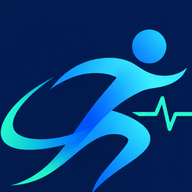
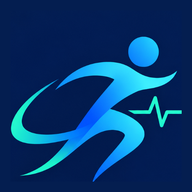
Make homepage type larger and use a graphic Revive Motion mark
Drop .Ai from the lockup, show the runner as the mark with Revive Motion in real text, and darken homepage copy so it is easier to read.

diff --git a/src/app/page.tsx b/src/app/page.tsx
@@ -49,16 +49,16 @@ export default function Home() {
 
       <main className="relative z-10 mx-auto flex w-full max-w-5xl flex-col px-6 pb-8">
         <section className="animate-fade-up mx-auto max-w-2xl text-center">
-          <span className="inline-flex items-center rounded-full border border-brand/30 bg-brand-soft px-4 py-1.5 text-xs font-bold uppercase tracking-wider text-brand-light">
-            Recovery & Mobility
+          <span className="inline-flex items-center rounded-full border border-brand/30 bg-white px-4 py-2 text-sm font-bold text-brand-light">
+            Recovery and mobility
           </span>
-          <h1 className="mt-6 text-4xl font-bold leading-tight tracking-tight sm:text-5xl">
+          <h1 className="mt-6 text-[2.15rem] font-bold leading-tight text-foreground sm:text-5xl">
             {t("moveBetter", locale)}
           </h1>
-          <p className="mt-4 text-lg text-body">
+          <p className="mt-5 text-xl leading-8 text-foreground">
             {isPatient
-              ? "Start today's session from your briefing, or explore a body area for a full assessment."
-              : "Select a body area for screening questions, sensor ROM testing, and personalized exercises."}
+              ? "Start today's session from your briefing, or open a body area for a full assessment."
+              : "Choose a body area for screening questions, movement tests, and exercises made for you."}
           </p>
           {isPatient && (
             <div className="mt-8 flex w-full max-w-sm flex-col gap-3 mx-auto">
@@ -94,9 +94,9 @@ export default function Home() {
               <div className="flex h-14 w-14 items-center justify-center rounded-xl bg-brand-soft text-brand transition group-hover:bg-brand group-hover:text-white">
                 {areaIcons[area.id]}
               </div>
-              <h2 className="mt-5 text-lg font-bold">{area.label}</h2>
-              <p className="mt-2 flex-1 text-sm leading-6 text-body">{area.description}</p>
-              <span className="mt-5 inline-flex items-center gap-1 text-sm font-semibold text-brand-light">
+              <h2 className="mt-5 text-xl font-bold text-foreground">{area.label}</h2>
+              <p className="mt-2 flex-1 text-base leading-7 text-foreground">{area.description}</p>
+              <span className="mt-5 inline-flex items-center gap-1 text-base font-semibold text-brand-light">
                 Start assessment →
               </span>
             </Link>

diff --git a/src/components/Logo.tsx b/src/components/Logo.tsx
@@ -6,31 +6,34 @@ type LogoProps = {
 };
 
 export function Logo({ size = 56, showText = true, stacked = false, className = "" }: LogoProps) {
+  const titleSize = stacked ? "text-3xl sm:text-4xl" : "text-xl sm:text-2xl";
+
   return (
     <div className={`flex items-center gap-4 ${stacked ? "flex-col text-center" : ""} ${className}`}>
       {/* eslint-disable-next-line @next/next/no-img-element */}
       <img
-        src="/logo.png"
-        alt="Revive Motion.Ai"
+        src="/logo-mark.png"
+        alt="Revive Motion"
         width={size}
-        height={Math.round(size * 0.935)}
+        height={size}
         className="shrink-0 rounded-[1.25rem] object-cover shadow-[0_10px_28px_rgba(27,51,72,0.16)]"
-        style={
-          stacked
-            ? { width: size, height: "auto" }
-            : { width: size, height: Math.round(size * 0.935) }
-        }
+        style={{ width: size, height: size }}
       />
-      {showText && (
-        <div className={`flex flex-col ${stacked ? "items-center" : ""}`}>
-          <span className="text-sm font-medium text-accent-light">
-            Physical Therapy Assistance
-          </span>
-          <span className="mt-1 max-w-sm text-sm leading-snug text-muted">
-            Equal recovery for every patient, regardless of income, language, or location
-          </span>
-        </div>
-      )}
+      <div className={`flex flex-col ${stacked ? "items-center lg:items-start" : ""}`}>
+        <span className={`${titleSize} font-bold leading-tight tracking-tight text-foreground`}>
+          Revive Motion
+        </span>
+        {showText && (
+          <>
+            <span className={`mt-2 font-semibold text-brand-light ${stacked ? "text-lg" : "text-sm"}`}>
+              Physical Therapy Assistance
+            </span>
+            <span className={`mt-1 max-w-sm leading-relaxed text-body ${stacked ? "text-base" : "text-sm"}`}>
+              Equal recovery for every patient, regardless of income, language, or location
+            </span>
+          </>
+        )}
+      </div>
     </div>
   );
 }

diff --git a/src/components/GoInScreen.tsx b/src/components/GoInScreen.tsx
@@ -55,7 +55,7 @@ export function GoInScreen({ mode }: GoInScreenProps) {
         </button>
         <AuthForm key={entry} mode={mode} defaultRole={entry} />
         <ResetAppButton />
-        <p className="mt-6 text-center text-sm text-muted">
+        <p className="mt-6 text-center text-base text-foreground">
           {mode === "login" ? (
             <>
               No account?{" "}
@@ -86,8 +86,8 @@ export function GoInScreen({ mode }: GoInScreenProps) {
             onClick={() => setEntry(item.id)}
             className={`rounded-2xl border px-5 py-4 text-left transition hover:brightness-[0.98] ${item.tileClass}`}
           >
-            <p className="text-lg font-bold">{item.title}</p>
-            <p className="mt-0.5 text-sm opacity-80">{item.subtitle}</p>
+            <p className="text-xl font-bold">{item.title}</p>
+            <p className="mt-1 text-base leading-6 opacity-90">{item.subtitle}</p>
           </button>
         ))}
         <Link
@@ -104,17 +104,17 @@ export function GoInScreen({ mode }: GoInScreenProps) {
             />
             <div className="absolute inset-0 bg-gradient-to-t from-[#3d3558]/75 to-transparent" />
             <div className="absolute bottom-3 left-5 right-5">
-              <p className="flex items-center gap-2 text-lg font-bold text-[#f4f0ea]">
+              <p className="flex items-center gap-2 text-xl font-bold text-white">
                 <KidsIcon name="gamepad" size={22} />
                 Kids Quest
               </p>
-              <p className="text-sm font-medium text-[#ece6d8]">Storybook adventure world</p>
+              <p className="text-base font-medium text-white">Storybook adventure world</p>
             </div>
           </div>
         </Link>
       </div>
       <ResetAppButton />
-      <p className="mt-6 text-center text-sm text-muted">
+      <p className="mt-6 text-center text-base text-foreground">
         {mode === "login" ? (
           <>
             No account?{" "}

diff --git a/src/components/AuthLanding.tsx b/src/components/AuthLanding.tsx
@@ -14,13 +14,9 @@ export function AuthLanding({ mode }: AuthLandingProps) {
       />
       <main className="relative z-10 mx-auto flex min-h-full w-full max-w-5xl flex-col justify-center gap-10 px-6 py-12 lg:flex-row lg:items-center lg:gap-16 lg:py-16">
         <section className="flex flex-col items-center text-center lg:w-[44%] lg:items-start lg:text-left">
-          <Logo size={168} showText={false} stacked />
-          <p className="mt-5 text-sm font-medium text-accent-light">Physical Therapy Assistance</p>
-          <p className="mt-2 max-w-sm text-sm leading-snug text-muted">
-            Equal recovery for every patient, regardless of income, language, or location
-          </p>
-          <p className="mt-5 hidden max-w-sm text-sm leading-relaxed text-body lg:block">
-            Guided exercises, a photo goniometer, and a wired heart sensor — then Go in as a
+          <Logo size={112} showText stacked className="lg:items-start lg:text-left" />
+          <p className="mt-6 max-w-md text-lg leading-8 text-foreground">
+            Guided exercises, a photo goniometer, and a wired heart sensor. Then go in as a
             patient, doctor, caregiver, or start Kids Quest.
           </p>
         </section>

diff --git a/src/components/Header.tsx b/src/components/Header.tsx
@@ -19,17 +19,11 @@ export function Header({ linkHome = false, variant = "patient" }: HeaderProps) {
   const isCaregiver = variant === "caregiver" || isCareTeam(user?.role);
 
   const logo = (
-    <div className="flex items-center gap-3">
-      <Logo size={64} showText={false} />
-      <div className="hidden sm:block">
-        <p className={`text-xs font-medium ${isCaregiver ? "text-[var(--caregiver-muted)]" : "text-muted"}`}>
-          Physical Therapy Assistance
-        </p>
-        <p className={`max-w-[16rem] text-[11px] leading-snug ${isCaregiver ? "text-[var(--caregiver-muted)]" : "text-muted"}`}>
-          Equal recovery for every patient, regardless of income, language, or location
-        </p>
-      </div>
-    </div>
+    <Logo
+      size={52}
+      showText={false}
+      className={isCaregiver ? "[&_span]:text-[var(--caregiver-text)]" : ""}
+    />
   );
 
   const isKids = variant === "kids";

diff --git a/src/app/globals.css b/src/app/globals.css
@@ -22,8 +22,8 @@
   --caregiver-bg: #eef6fb;
   --caregiver-text: #1b3348;
   --caregiver-muted: #4d6478;
-  --muted: #4d6478;
-  --body: #355067;
+  --muted: #2f4a60;
+  --body: #1b3348;
   --border: rgba(79, 144, 198, 0.22);
   --shadow: rgba(27, 51, 72, 0.06);
   --ai-panel: #ffffff;
@@ -68,8 +68,8 @@ body {
   min-height: 100%;
   background: var(--background);
   color: var(--foreground);
-  font-size: 1rem;
-  line-height: 1.6;
+  font-size: 1.0625rem;
+  line-height: 1.65;
 }
 
 details > summary {

diff --git a/src/lib/i18n.ts b/src/lib/i18n.ts
@@ -45,7 +45,7 @@ const copy = {
     kidsQuest: "Kids Quest",
     dashboard: "Dashboard",
     alerts: "Alerts",
-    moveBetter: "Move better, feel stronger",
+    moveBetter: "Move better. Feel stronger.",
     goToBriefing: "Go to today's briefing",
     photoGoniometer: "Photo Goniometer",
     photoTab: "Photo",
